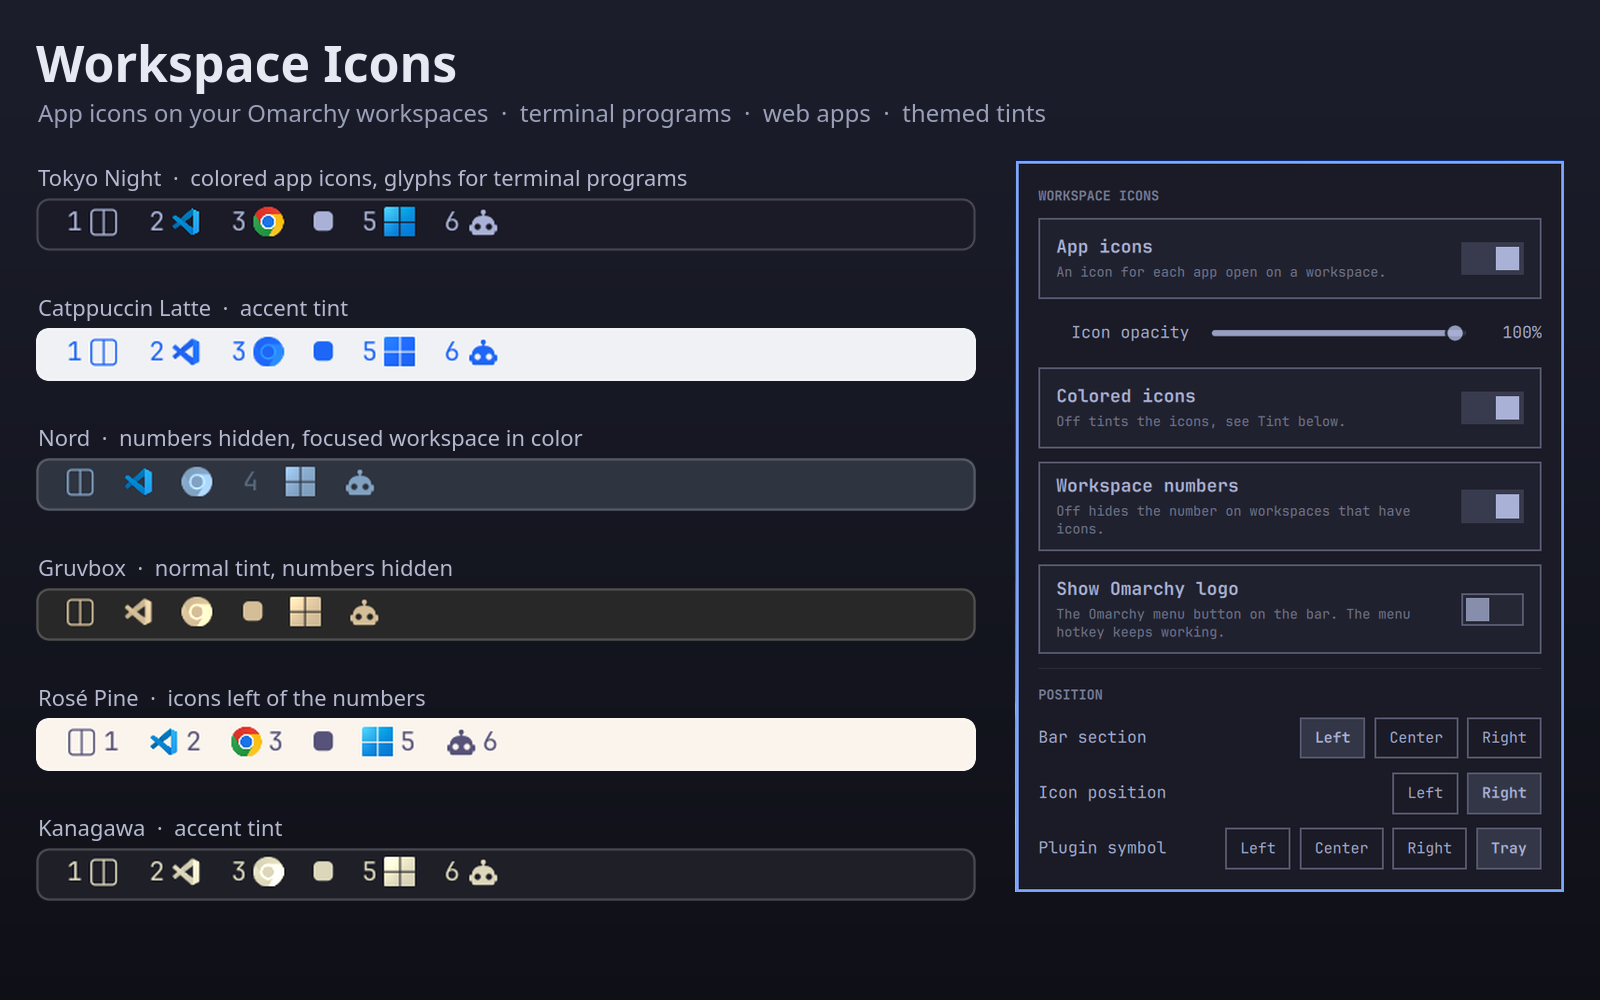
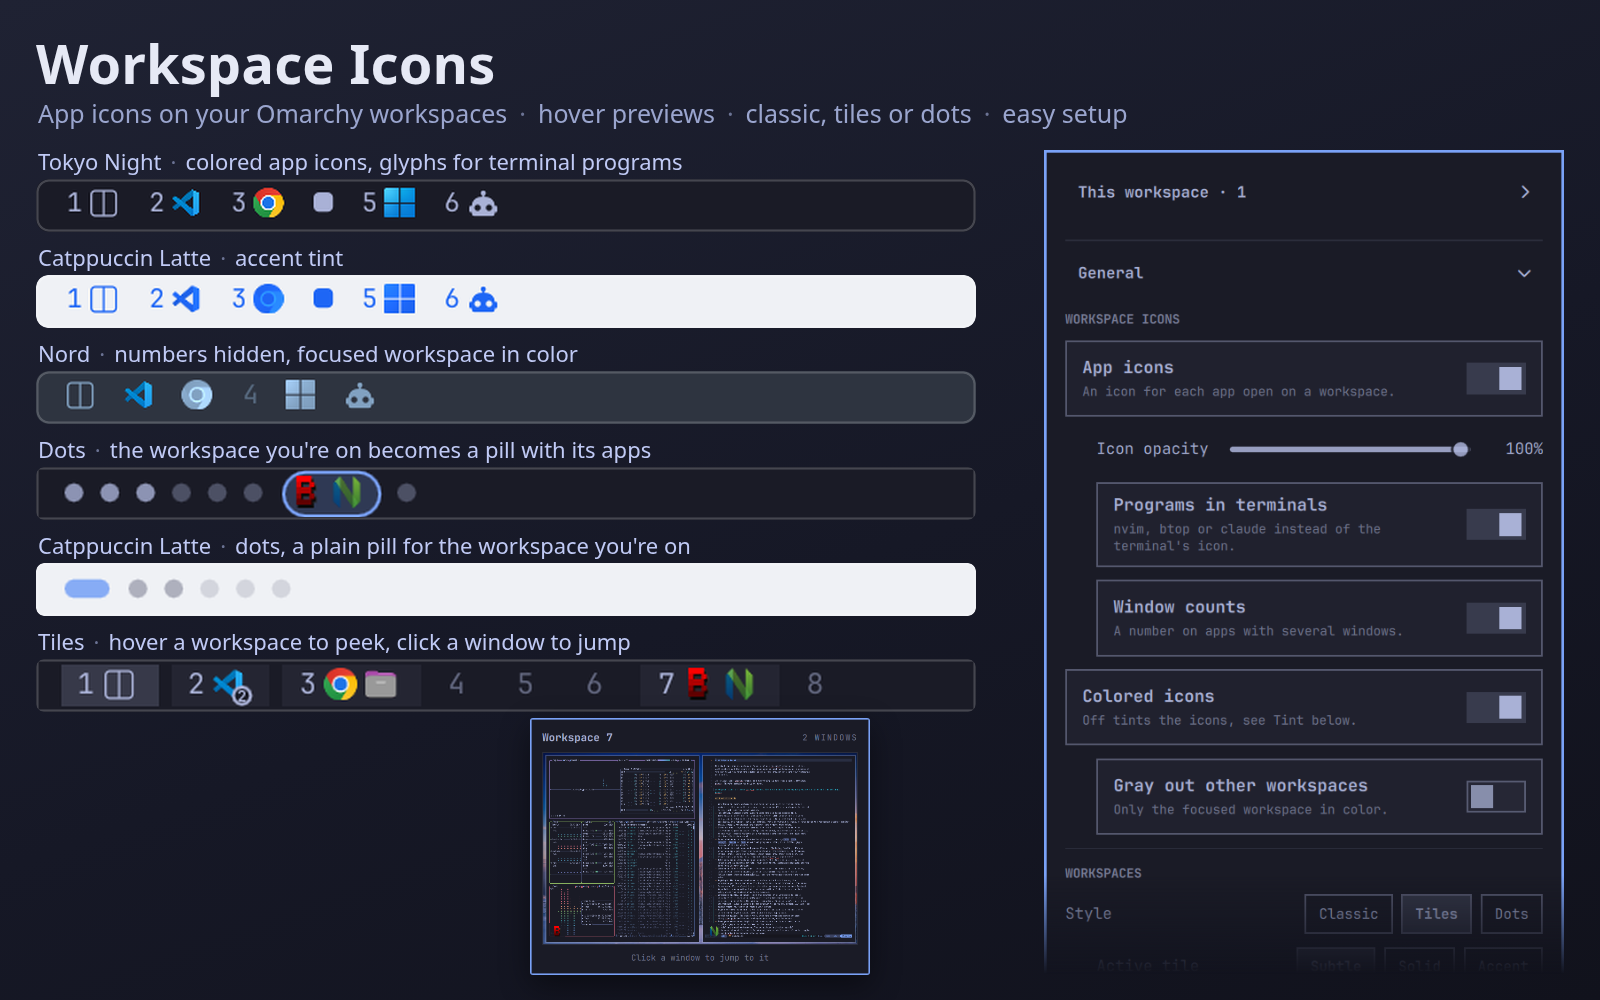
Document 1.2.0 and refresh the preview and screenshots

Changed region(s): [[0.0, 0.031, 0.9688, 0.961], [0.9062, 0.217, 0.9688, 0.279]]

diff --git a/README.md b/README.md
@@ -8,17 +8,31 @@ on 1 and 6.
 It follows your Omarchy theme, and everything is set from a small settings
 popup. There's nothing to edit by hand.
 
-![Workspace Icons in six Omarchy themes, with the settings popup](preview.png)
+![Workspace Icons in three Omarchy themes, the dots and tiles styles, a workspace preview on hover and the settings popup](preview.png)
 
 ## What it can do
 
 - **App icons on every workspace.** One icon per app, next to the workspace
-  number. Click a workspace to switch to it, just like the stock widget.
+  number, in the order the windows sit on screen. Click a workspace to switch
+  to it, just like the stock widget.
+- **Three styles.** **Classic** shows numbers with the app icons beside them.
+  **Tiles** puts each workspace with windows on a soft rounded tile, the one
+  you're on on a stronger one (subtle, solid or accent), with the focused
+  window's app highlighted. **Dots** draws a small dot per workspace, bright with windows and dim when
+  empty, and stretches the workspace you're on into a pill that carries its
+  app icons, its number, both, or nothing, with or without a frame. A ring marks the workspace another monitor
+  shows, special workspaces are squarer, and urgent ones pulse.
+- **Click an icon to go to its window.** Left-click an app's icon to focus
+  its window (again to cycle through its windows), middle-click to close it.
+  An app with several windows on a workspace shows how many, and apps past
+  the icon limit show as **+N**.
 - **Knows what runs in your terminals.** A terminal running `nvim`, `btop`,
   `lazygit`, `claude` or `tmux` shows that program's icon, or a fitting glyph,
   instead of the terminal's.
-- **Real icons for web apps.** Discord, WhatsApp, YouTube and other web apps
-  get their own icon instead of the browser's.
+- **Real icons for web apps and games.** Discord, WhatsApp, YouTube, HEY and
+  other web apps get their own icon instead of the browser's, in Chromium,
+  Chrome, Brave, Edge and Vivaldi. Steam games show their game icon, and
+  Claude Code and Codex in a terminal show Omarchy's agent icons.
 - **Only uses icons already on your computer.** The plugin ships no logos; it
   finds icons in desktop entries, your icon theme, installed packages and the
   Nerd Font Omarchy includes.
@@ -28,15 +42,32 @@ popup. There's nothing to edit by hand.
   color.
 - **Highlight the focused workspace in color.** With tinted icons, the
   workspace you're on can show its icons in full color instead of the usual
-  focus mark.
+  focus mark. With colored icons, the other workspaces can go gray instead.
 - **Adjustable icon opacity.** Fade the icons with a slider to keep the bar
   calm, while the numbers stay fully visible.
-- **Workspace preview on hover.** Rest the pointer on a workspace to see a
-  miniature of it: its windows where they sit on the monitor, captured from
-  the windows themselves.
+- **Peek before you jump.** Rest the pointer on a workspace to see a
+  miniature of it over your wallpaper: its windows where they sit on the
+  monitor, captured from the windows themselves, each with its app's icon in
+  the corner. Hover an app's icon on the bar to mark its windows, click a
+  window in the preview to jump to it. Optionally live, and
+  hidden while you share or record your screen.
+- **Urgent windows stand out.** A workspace whose app wants attention pulses
+  in the bar's urgent color, with a dot on that app's icon.
+- **Scroll to switch.** The mouse wheel over the workspaces moves between
+  them; trackpads switch one workspace per notch, not in bursts.
+- **Name your workspaces.** Right-click a workspace and type a name, or an
+  emoji or glyph, to show instead of its number.
+- **Special and named workspaces.** The scratchpad and other special
+  workspaces show while they hold windows, marked while open; click to toggle.
+  Named Hyprland workspaces show by name.
+- **Multi-monitor aware.** Each bar marks the workspace its own monitor
+  shows. Optionally each bar lists only its monitor's workspaces, and a click
+  can bring a workspace to the monitor you clicked on.
+- **Vertical bars too.** On a left or right bar the icons stack under the
+  number.
 - **As many workspaces as you use.** Choose how many workspaces the bar
-  always shows, from 1 to 10, even when they're empty. Workspaces with
-  windows past that number show up too.
+  always shows, from 1 to 10, even when they're empty, or hide empty ones.
+  Workspaces with windows past that number show up too, up to 99.
 - **Numbers optional.** Hide the numbers on workspaces that have apps and let
   the icons speak. Put the icons left or right of the number.
 - **Put it anywhere.** Move the widget to the bar's left, center or right
@@ -45,7 +76,10 @@ popup. There's nothing to edit by hand.
 - **Hide the Omarchy logo** on the bar if you don't use it. The Omarchy menu
   and its hotkey keep working.
 - **Settings in one popup.** Click the settings button, right-click any
-  workspace, or bind a hotkey. The popup also works with the keyboard.
+  workspace, or bind a hotkey. The popup also works with the keyboard. Every
+  setting can also be set with `omarchy bar set`.
+- **Light on the system.** It follows Hyprland's events instead of polling,
+  and polls only for what runs in terminals, while there are terminals.
 
 ## Screenshots
 
@@ -77,9 +111,44 @@ workspaces with apps.
 
 ![Kanagawa with accent tint](screenshots/kanagawa-accent.png)
 
-**The settings popup** (Tokyo Night):
+**Tiles style** (Tokyo Night), with the **Subtle** active tile:
 
-![The settings popup](screenshots/settings-popup.png)
+![Tiles style with a tile per workspace](screenshots/tokyo-night-tiles.png)
+
+**Dots style** (Tokyo Night): a dot per workspace, and the one you're on
+(7, with `btop` and `nvim`) a pill carrying its apps.
+
+![Dots style with the focused workspace as a pill of its apps](screenshots/tokyo-night-dots.png)
+
+With tinted icons the pill is solid and can carry the number too; with the
+pill frame off the apps sit on the bar itself.
+
+![Dots style with a tinted pill showing the number and icons](screenshots/tokyo-night-dots-tinted.png)
+
+![Dots style with the pill frame off](screenshots/tokyo-night-dots-frameless.png)
+
+**Catppuccin Latte, dots:** with **Focused pill → None**, a plain pill marks
+the workspace you're on.
+
+![Dots style in Catppuccin Latte with a plain pill](screenshots/catppuccin-latte-dots.png)
+
+**Tiles style and the workspace preview** (Tokyo Night): workspaces with
+windows sit on tiles, the one you're on (1) on a brighter one. Resting the
+pointer on workspace 7 shows its two terminals, `btop` and `nvim`, where they
+sit on the monitor; click one to jump to it. The bar is set to show 8
+workspaces, so the empty ones stay visible too.
+
+![Hovering workspace 7 shows a preview of its windows](screenshots/tokyo-night-hover-preview.png)
+
+**The settings popup** (Tokyo Night), opened from the settings button: the
+**General** section, with **This workspace** folded above it.
+
+![The settings popup on its General section](screenshots/settings-popup.png)
+
+Right-clicking workspace 3 opens it on that workspace's own settings, here
+with the name "web".
+
+![The settings popup on the This workspace section](screenshots/settings-this-workspace.png)
 
 ## Install
 
@@ -97,21 +166,61 @@ talk to `omarchy.workspaces` keep working and reach Workspace Icons instead.
 Open the settings by clicking the small grid button in front of the
 workspaces, or by right-clicking any workspace.
 
+The popup has two sections that fold open and closed: **This workspace**,
+with the settings of one workspace, and **General**, with everything else.
+Right-clicking a workspace opens the popup on that workspace's section; the
+settings button, the tray icon and the hotkey open it on **General**, where
+**This workspace** is the one you're on.
+
+**This workspace**
+
 | Setting | What it does |
 |---|---|
+| **Name** | Shown instead of the workspace's number; a word, an emoji or a glyph. Press Enter to save, clear it for the number. |
+| **Always show** | Keep the workspace on the bar even when it's empty or past **Workspaces shown**. |
+| **Hide from the bar** | Show the workspace only while you're on it. |
+| **App icons** | Show the icons of the apps on this workspace. |
+| **Preview** | Show this workspace's preview when you hover it, e.g. off for a private one. |
+
+**General** has four parts.
+
+| Setting | What it does |
+|---|---|
+| **Workspace icons** | |
 | **App icons** | Show an icon for each app open on a workspace. |
 | ↳ **Icon opacity** | Slider from 20 % to 100 %. Fades the icons; the numbers stay opaque. |
+| ↳ **Programs in terminals** | Show the program running in a terminal (`nvim`, `btop`, `claude`) instead of the terminal's icon. |
+| ↳ **Window counts** | A small number on apps with several windows on the workspace. |
 | **Colored icons** | Show icons in their own colors. Turn off to tint them. |
 | ↳ **Tint** | Shown while colored icons are off. **Accent** tints icons and numbers in the theme's accent color, **Normal** in its text color. |
 | ↳ **Color the focused workspace** | Shown while colored icons are off. The focused workspace shows its icons in color instead of the focus mark. |
-| **Workspace numbers** | Turn off to hide the number on workspaces that have icons. Empty workspaces keep their number. |
+| ↳ **Gray out other workspaces** | Shown while colored icons are on. Only the focused workspace's icons keep their color. |
+| **Workspaces** | |
+| **Style** | **Classic**: numbers with the app icons beside them. **Tiles**: the same on a rounded tile per workspace. **Dots**: a dot per workspace, the focused one a pill with its icons. |
+| ↳ **Active tile** | Shown with the tiles style. The tile of the workspace you're on: **Subtle** (brighter), **Solid** (the bar's text color) or **Accent**. |
+| ↳ **Focused pill** | Shown with the dots style. **Icons**, **Number** (or the workspace's name), **Both**, or **None** for a plain pill. |
+| ↳ **Pill frame** | Shown with the dots style. The shape around the focused workspace's icons and number; off shows them on the bar itself. An empty pill keeps its shape. |
+| **Workspace numbers** | Turn off to hide the number on workspaces that have icons. Empty workspaces and named ones keep their label. |
+| **Hide empty workspaces** | Show only workspaces with windows, and the one each monitor shows. |
+| ↳ **Workspaces shown** | Shown while empty workspaces are shown. Slider from 1 to 10: how many workspaces the bar always shows. |
+| **Only this monitor's workspaces** | With several monitors, each bar lists the workspaces on its own monitor. |
+| **Special workspaces** | Show the scratchpad and other special workspaces while they hold windows. |
+| **Highlight urgent windows** | Pulse a workspace whose app wants attention, with a dot on the app's icon. |
+| **Scroll to switch** | The mouse wheel over the workspaces moves between them. |
+| **Animations** | Fades and pulses. Off keeps the bar still. |
 | **Show Omarchy logo** | Show or hide the Omarchy menu button on the bar. The menu hotkey keeps working. |
+| **Preview** | |
+| **Workspace preview** | Hover a workspace to see its windows. |
+| ↳ **Live preview** | The windows keep updating while the preview is open, instead of a still capture. |
+| ↳ **Hide while screen sharing** | No preview while the screen is shared or recorded. |
+| **Position** | |
 | **Bar section** | Left, center or right section of the bar. |
 | **Icon position** | Icons left or right of the workspace number. |
 | **Plugin symbol** | Where the settings button sits: left, center or right section of the bar, or **Tray**. |
 
-Keyboard: arrow keys or `j`/`k` move between rows, `h`/`l` change a choice or the slider,
-Enter toggles, Esc closes.
+Keyboard: arrow keys or `j`/`k` move between rows, `h`/`l` change a choice or the slider
+and fold a section closed or open, Enter toggles (on a section title it folds
+it, on **Name** it starts typing), Esc closes.
 
 ### Settings button in the tray
 
@@ -121,6 +230,15 @@ clicking it opens the settings right under it. A small helper
 (`scripts/tray-icon`) provides the tray icon. It runs only while Tray is
 selected and stops with the shell.
 
+### Mouse
+
+| On | Left click | Middle click | Right click | Wheel |
+|---|---|---|---|---|
+| A workspace | Switch to it | Send the focused window there | Its settings | Next or previous workspace |
+| An app's icon | Focus its window, again for the next one | Close that window | Settings | Next or previous workspace |
+| A special workspace | Show or hide it | | Settings | |
+| A window in the preview | Focus it | | | |
+
 ### Hotkey
 
 Open the settings from a key binding in `~/.config/hypr/bindings.lua`:
@@ -129,6 +247,10 @@ Open the settings from a key binding in `~/.config/hypr/bindings.lua`:
 o.bind("SUPER + ALT + W", "Workspace Icons settings", "omarchy-shell woodenplastic.workspace-icons toggle")
 ```
 
+The same command takes `settings 3` to open the settings on workspace 3's own
+section, `peek 3` to show the preview of workspace 3 (and `unpeek` to close
+it), and `status` to print what each bar shows, as JSON.
+
 ### More options
 
 A few rarely needed options have no switch in the popup. Set them on the
@@ -136,10 +258,15 @@ widget's entry in `~/.config/omarchy/shell.json`:
 
 | Key | Default | What it does |
 |---|---|---|
-| `maxIcons` | `4` | Maximum icons per workspace (one per distinct app). |
-| `showTerminalPrograms` | `true` | Show the program running in a terminal instead of the terminal icon. |
-| `terminalPollSeconds` | `2` | How often to refresh window info and check what runs in terminals. |
+| `maxIcons` | `4` | Maximum icons per workspace (one per distinct app); more show as **+N**. |
+| `clickSummons` | `false` | Clicking a workspace brings it to the monitor of the bar you clicked, instead of switching to the monitor it is on. |
+| `scrollWrap` | `true` | Scrolling past the last workspace goes back to the first. |
+| `terminalPollSeconds` | `2` | How often to check what runs in terminals, while there are terminals. Window changes come from Hyprland's events. |
 | `iconOverrides` | `{}` | Window class or program name → icon name or absolute image path. |
+| `workspaceSettings` | `{}` | Settings of single workspaces, as set in the popup's **This workspace** section: workspace number → `name`, `alwaysShow`, `hidden`, `showIcons`, `preview`. |
+
+All settings, including the ones in the popup, can also be set from a
+terminal, for example `omarchy bar set woodenplastic.workspace-icons hideEmpty true`.
 
 Example:
 
@@ -166,20 +293,29 @@ installed on your computer, so it covers the apps you actually use:
    terminal's foreground. It gets its own icon from its desktop entry, your
    icon theme, a launcher that opens it in a terminal (Omarchy's TUI entries,
    e.g. *Disk Usage* for `dua`), or the icons its package installed.
-3. **Web apps:** browser app windows (Omarchy web apps, `--app=` windows)
-   show the icon of the web app entry that launches that site, so Discord,
-   WhatsApp or YouTube get their own icon instead of the browser's.
-4. **Desktop apps:** the app's desktop entry, then your icon theme.
-5. **Anything else installed:** `/usr/share/pixmaps` and the icons the
+3. **Omarchy TUI launchers:** windows Omarchy opens for a terminal program
+   (class `org.omarchy.<program>`) get that program's icon, as in step 2.
+   Claude Code and Codex get the agent icons Omarchy ships.
+4. **Web apps:** browser app windows (Omarchy web apps, `--app=` windows in
+   Chromium, Chrome, Brave, Edge or Vivaldi, installed web apps) show the icon
+   of the web app entry that launches that site, so Discord, WhatsApp or
+   YouTube get their own icon instead of the browser's. Web apps opened
+   through a handler script, like HEY and Zoom, are matched by name.
+5. **Steam games:** the game's icon Steam installs (`steam_icon_<id>`).
+6. **Desktop apps:** the desktop entry with the window's class as its id,
+   then one whose `StartupWMClass` matches, then the closest match by name,
+   then your icon theme.
+7. **Anything else installed:** `/usr/share/pixmaps` and the icons the
    owning package installed (looked up read-only with `pacman`).
-6. **Nerd Font glyphs:** terminal programs with no icon anywhere get a glyph
+8. **Nerd Font glyphs:** terminal programs with no icon anywhere get a glyph
    from the Nerd Font Omarchy installs. Tools that have one get their own
    (git, docker, node, python, rust, go, lua, ruby, vim, neovim, emacs,
    kubectl, pacman/yay/paru and more). Others get a glyph for their kind:
    a robot for AI agents like `claude` or `codex`, a gauge for system
    monitors, a folder for file managers, a split pane for `tmux`/`zellij`,
    and so on. The glyphs take the bar's text color, or your tint.
-7. A generic app icon, or the terminal icon for a plain shell.
+9. A generic app icon, or the terminal icon for a plain shell. An icon that
+   fails to load shows the app's first letter.
 
 To give an app or program a specific icon, map it in `iconOverrides`
 (`"lazygit": "/path/to/lazygit.svg"`), or drop an SVG named after it into
@@ -214,13 +350,23 @@ No other packages are needed.
 
 Everything stays on your computer; the plugin makes no network requests.
 
-- The window list from `hyprctl clients`, every couple of seconds.
+- Hyprland's events, and on each burst of them the window list from
+  `hyprctl clients` and the monitors from `hyprctl monitors`. While terminal
+  windows are open it also reads them every couple of seconds, since what runs
+  in a terminal changes without an event.
+- Hyprland's workspace rules (`hyprctl workspacerules`), to put empty
+  workspaces on the right monitor.
 - For terminal windows, the name of the program in the foreground, from
   `/proc`.
 - Desktop entries, your icon theme, `/usr/share/pixmaps`, and which package
   owns a program and what icons it installed (`pacman -Qo` / `pacman -Ql`,
   read-only).
 - `~/.config/omarchy/shell.json`, for its own settings.
+- For the preview: your wallpaper (`~/.local/state/omarchy/current/background`),
+  captures of the previewed windows (only while the preview is open), and,
+  with **Hide while screen sharing**, PipeWire's video streams and whether a
+  screen recorder (`wf-recorder`, `gpu-screen-recorder`, `wl-screenrec`, OBS,
+  Kooha) is running.
 
 ## Uninstall
 
